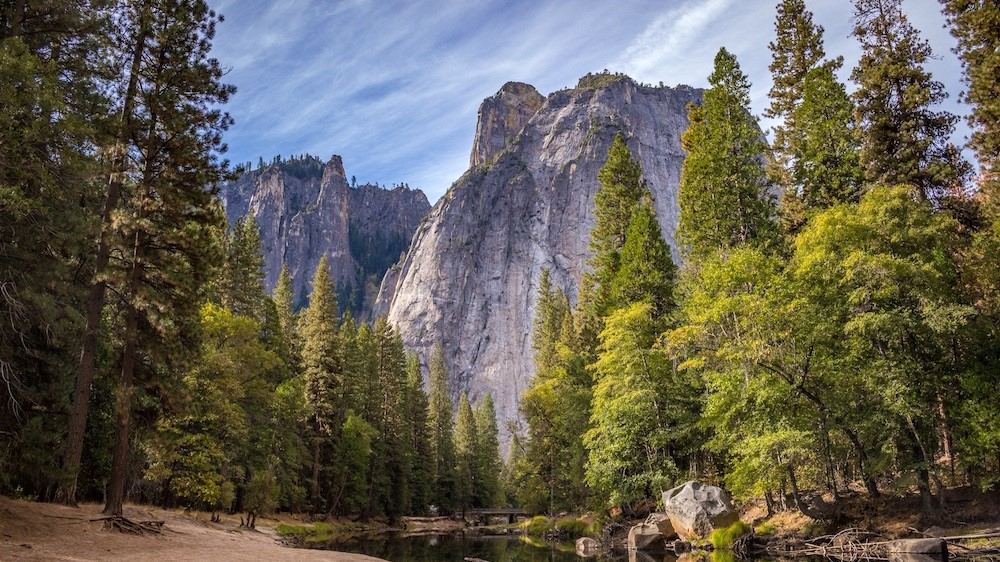
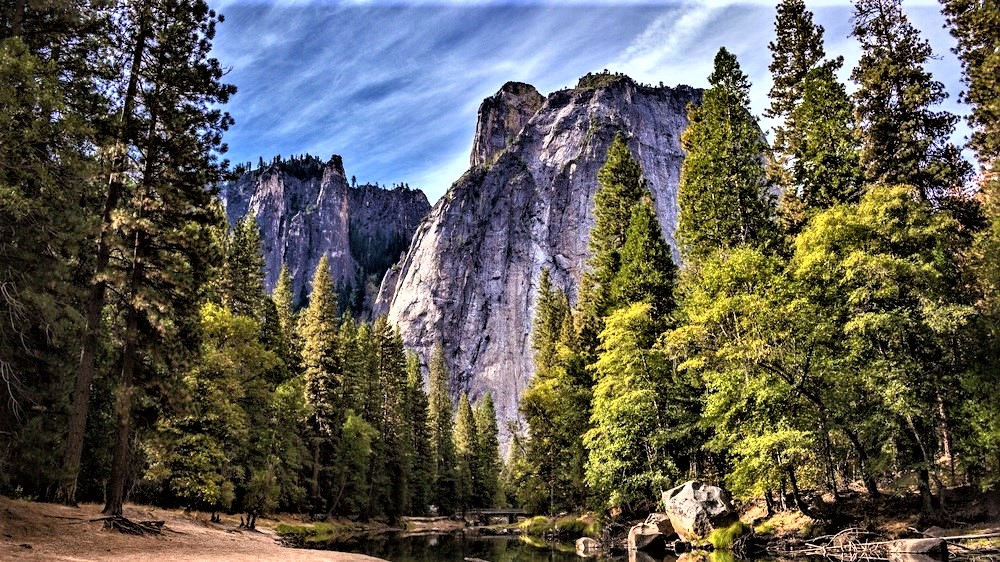
GT-3> Add background blend to the images in the cards
GT-3> Add background blend to the images in the cards

diff --git a/sass/components/card.scss b/sass/components/card.scss
@@ -1,4 +1,5 @@
 .card {
+  //FUNCTIONALITY
   //perspective means how far the value is from the screen and how intense the 3d effects are on the shape
   //perspective is always written to the parent property and applied to children
   perspective: 150rem;
@@ -17,6 +18,7 @@
     top: 0;
     border-radius: 5px;
     box-shadow: 0 1.5rem 4rem rgba($neutral-color-grey__1, 0.2);
+
     &--front {
       background-color: $neutral-color-white;
 
@@ -47,17 +49,48 @@
       }
 
       &--3 {
-        background: linear-gradient(to right bottom, rgba($tertiary-color__red__-2, 1), rgba($tertiary-color__red__0, 1));
+        background: linear-gradient(to right bottom, rgba($tertiary-color__red__-3, 1), rgba($tertiary-color__red__0, 1));
       }
     }
   }
 
   &:hover &__side--front {
-    transform: rotateY(180deg);
+    transform: rotateY(-180deg);
   }
 
   &:hover &__side--back {
     //on hover rotate the back side back to normal
     transform: rotateY(0deg);
+  }
+
+  //FRONT-SIDE STYLING
+  &__picture {
+    width: 100%;
+    height: 20rem;
+    border-radius: 5px 5px 0 0;
+
+    &--1 {
+      background-image: linear-gradient(to right bottom, rgba($secondary-color__-2, 1), rgba($secondary-color__0, 1)), url("../img/nat-1-large - small.jpg");
+      background-repeat: no-repeat;
+      background-size: cover;
+      background-position: center;
+      background-blend-mode: hard-light;
+    }
+
+    &--2 {
+      background-image: linear-gradient(to right bottom, rgba($tertiary-color__torquise__-1, 1), rgba($tertiary-color__torquise__1, 1)), url("../img/nat-32.jpg");
+      background-repeat: no-repeat;
+      background-size: cover;
+      background-position: center;
+      background-blend-mode: hard-light;
+    }
+
+    &--3 {
+      background-image: linear-gradient(to right bottom, rgba($tertiary-color__red__-3, 1), rgba($tertiary-color__red__0, 1)), url("../img/nat-52.jpg");
+      background-repeat: no-repeat;
+      background-size: cover;
+      background-position: center;
+      background-blend-mode: hard-light;
+    }
   }
 }

diff --git a/index.html b/index.html
@@ -116,19 +116,31 @@
         <div class="row">
             <div class="col-1-of-3">
                 <div class="card">
-                    <div class="card__side card__side--front card__side--front--1">Front Side</div>
+                    <div class="card__side card__side--front card__side--front--1">
+                        <div class="card__picture card__picture--1"></div>
+                        <div class="card__heading">Heading</div>
+                        <div class="card__details">Details</div>
+                    </div>
                     <div class="card__side card__side--back card__side--back--1">Back Side</div>
                 </div>
             </div>
             <div class="col-1-of-3">
                 <div class="card">
-                    <div class="card__side card__side--front card__side--front--2">Front Side</div>
+                    <div class="card__side card__side--front card__side--front--2">
+                        <div class="card__picture card__picture--2"></div>
+                        <div class="card__heading">Heading</div>
+                        <div class="card__details">Details</div>
+                    </div>
                     <div class="card__side card__side--back card__side--back--2">Back Side</div>
                 </div>
             </div>
             <div class="col-1-of-3">
                 <div class="card">
-                    <div class="card__side card__side--front card__side--front--3">Front Side</div>
+                    <div class="card__side card__side--front card__side--front--3">
+                        <div class="card__picture card__picture--3"></div>
+                        <div class="card__heading">Heading</div>
+                        <div class="card__details">Details</div>
+                    </div>
                     <div class="card__side card__side--back card__side--back--3">Back Side</div>
                 </div>
             </div>

diff --git a/css/style.css b/css/style.css
@@ -209,8 +209,8 @@ body {
   display: inline-block;
   text-decoration: none;
   padding: 4px 6px;
-  border-bottom: 1px solid #b64201;
-  color: #b64201;
+  border-bottom: 1px solid #c92424;
+  color: #c92424;
   transition: all 0.2s ease-in-out; }
 
 .btn-text:hover {
@@ -298,11 +298,33 @@ body {
       .card__side--back--2 {
         background: linear-gradient(to right bottom, turquoise, #26867d); }
       .card__side--back--3 {
-        background: linear-gradient(to right bottom, #e34500, #b64201); }
+        background: linear-gradient(to right bottom, #fc6a6a, #b64201); }
   .card:hover .card__side--front {
-    transform: rotateY(180deg); }
+    transform: rotateY(-180deg); }
   .card:hover .card__side--back {
     transform: rotateY(0deg); }
+  .card__picture {
+    width: 100%;
+    height: 20rem;
+    border-radius: 5px 5px 0 0; }
+    .card__picture--1 {
+      background-image: linear-gradient(to right bottom, #e7f653, #fcbf00), url("../img/nat-1-large - small.jpg");
+      background-repeat: no-repeat;
+      background-size: cover;
+      background-position: center;
+      background-blend-mode: hard-light; }
+    .card__picture--2 {
+      background-image: linear-gradient(to right bottom, turquoise, #26867d), url("../img/nat-32.jpg");
+      background-repeat: no-repeat;
+      background-size: cover;
+      background-position: center;
+      background-blend-mode: hard-light; }
+    .card__picture--3 {
+      background-image: linear-gradient(to right bottom, #fc6a6a, #b64201), url("../img/nat-52.jpg");
+      background-repeat: no-repeat;
+      background-size: cover;
+      background-position: center;
+      background-blend-mode: hard-light; }
 
 .header {
   position: relative;

diff --git a/sass/components/_button.scss b/sass/components/_button.scss
@@ -62,8 +62,8 @@
     display: inline-block;
     text-decoration: none;
     padding: 4px 6px;
-    border-bottom: 1px solid $tertiary-color__red__0;
-    color: $tertiary-color__red__0;
+    border-bottom: 1px solid $tertiary-color__red__-1;
+    color: $tertiary-color__red__-1;
     transition: all 0.2s ease-in-out;
   }
 

diff --git a/sass/abstract/_variables.scss b/sass/abstract/_variables.scss
@@ -29,6 +29,7 @@ $secondary-color__1: #db8200;
 
 
 //Tertiary Color : YELLOW TORQUISE AND RED */
+$tertiary-color__red__-3: #fc6a6a;
 $tertiary-color__red__-2: #e34500;
 $tertiary-color__red__-1: #c92424;
 $tertiary-color__red__0: #b64201;
